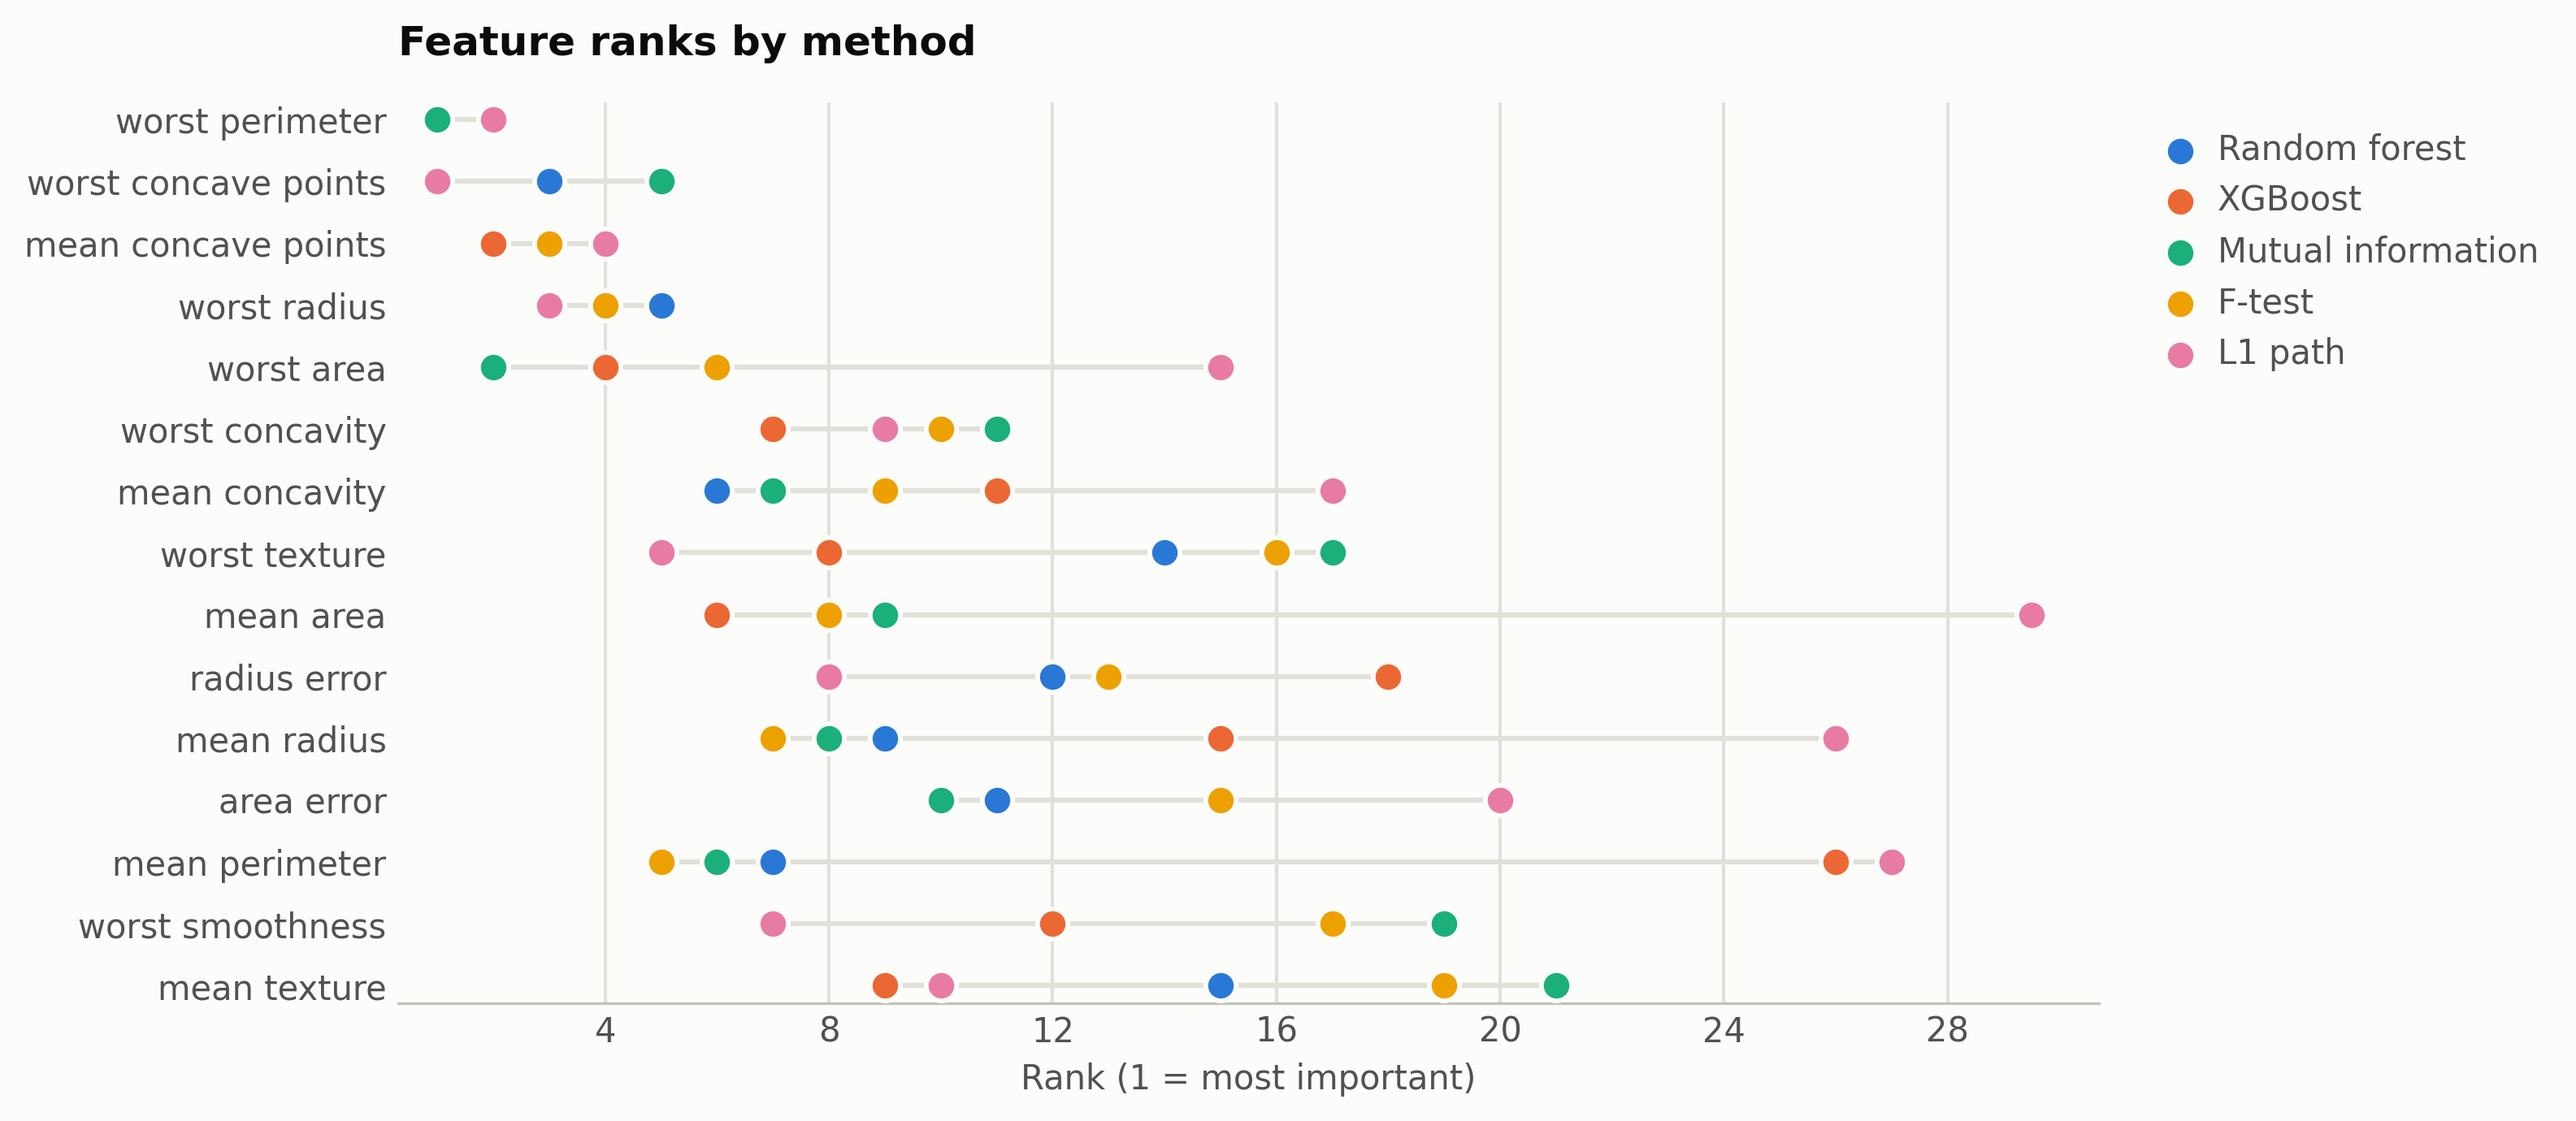
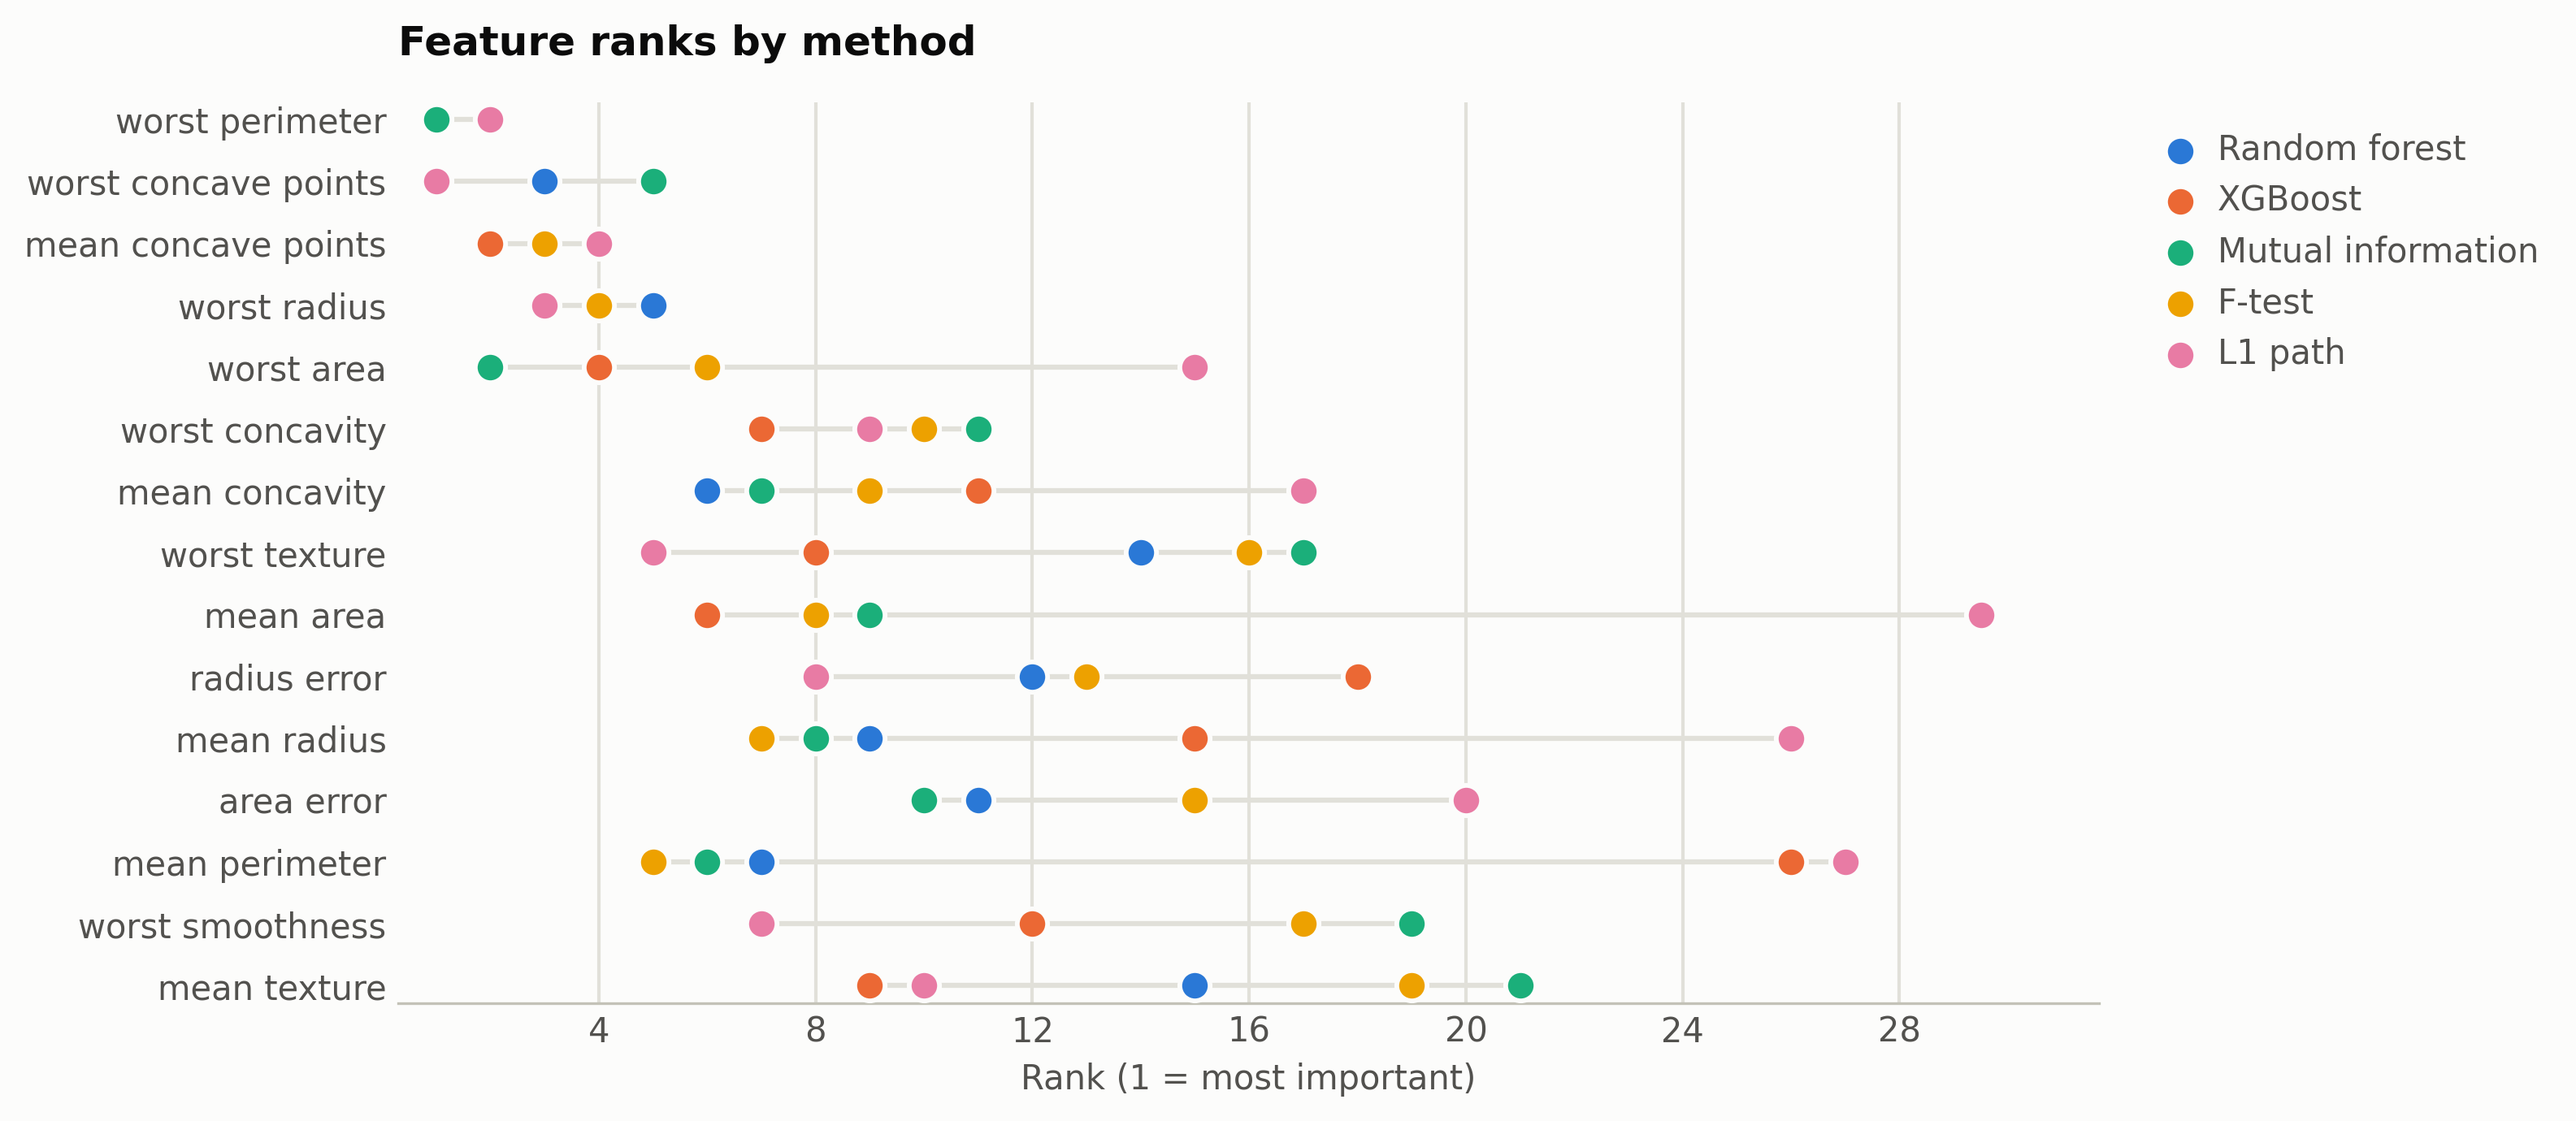
fix: plot axes scale to displayed rows for huge feature counts
At thousands of features the dot plot's rank axis spanned every rank while
the shown top rows sat in the first few percent, and the heatmap's fixed
vmax pushed all displayed cells to near-black. Both now scale to the rows
actually displayed. README/docs/notebook wire in the examples and the
CHANGELOG records the numpy input and examples system.

diff --git a/src/featureranker/plots.py b/src/featureranker/plots.py
@@ -136,7 +136,10 @@ def plot_rankings(
     ax.invert_yaxis()
     ax.margins(y=0.02)
     ax.xaxis.set_major_locator(MaxNLocator(integer=True))
-    ax.set_xlim(0.3, result.n_features + 0.7)
+    # scale to the displayed rows: with thousands of features the shown top
+    # ranks would otherwise huddle at the left of a nearly empty axis
+    shown_max = float(spread.to_numpy().max())  # ()
+    ax.set_xlim(0.3, shown_max * 1.05 + 0.7)
     ax.grid(axis="x", color=_GRID, linewidth=1.0)
     ax.set_xlabel("Rank (1 = most important)", color=_INK_SECONDARY)
     legend = ax.legend(
@@ -173,7 +176,7 @@ def plot_rank_heatmap(
         ranks,
         cmap=_SEQUENTIAL_R,
         vmin=1.0,
-        vmax=float(result.n_features),
+        vmax=float(ranks.to_numpy().max()),
         annot=annotate,
         fmt=".0f",
         annot_kws={"fontsize": 9},

diff --git a/tests/test_plots.py b/tests/test_plots.py
@@ -63,6 +63,14 @@ def test_plot_rankings_top_n(univariate_result):
     assert len(ax.get_yticklabels()) == 5
 
 
+def test_plot_rankings_axis_scales_to_shown_rows(wide_data):
+    """With thousands of features the axis follows the displayed top ranks."""
+    X, y = wide_data
+    result = feature_ranking(X, y, methods=["mi", "f_test"])
+    ax = plot_rankings(result, top_n=10, show=False)
+    assert ax.get_xlim()[1] < result.n_features / 2
+
+
 def test_plot_rank_heatmap(univariate_result):
     ax = plot_rank_heatmap(univariate_result, show=False)
     assert isinstance(ax, plt.Axes)

diff --git a/docs/examples/modernbert_sentiment.md b/docs/examples/modernbert_sentiment.md
@@ -1,0 +1,57 @@
+# ModernBERT sentiment: ranking unnamed embedding dimensions
+
+Nothing in featureranker requires named columns or a table. Here the
+features are the 1,536 pooled hidden-state dimensions of
+[answerdotai/ModernBERT-base](https://huggingface.co/answerdotai/ModernBERT-base) over
+4,000 SST-2 sentences (mask-aware mean pooling concatenated
+with mask-aware variance pooling, 768 dimensions each), and the target is
+the sentiment label. Passing the bare numpy matrix assigns each dimension a
+stable ID: f0000-f0767 are mean-pooled, f0768-f1535
+are variance-pooled.
+
+```python
+import numpy as np
+from featureranker import feature_ranking, voting
+
+E = np.load("embeddings.npy")   # (4000, 1536) pooled ModernBERT features
+y = np.load("labels.npy")       # (4000,) sentiment labels
+result = feature_ranking(E, y, task="classification")
+vote_table = voting(result)
+```
+
+## A few dimensions carry the signal
+
+The top 20 of 1,536 dimensions hold
+41% of the total vote score, and the L1 path never activated
+52 dimensions at all (92 parallel
+liblinear fits located every entry point). Of the top 20,
+19 are mean-pooled and 1 are variance-pooled dimensions.
+
+| feature | score |
+|---|---|
+| f0211 | 4.5 |
+| f0390 | 1.738 |
+| f0569 | 1.71 |
+| f0570 | 1.596 |
+| f0092 | 1.043 |
+| f0686 | 0.7097 |
+| f0354 | 0.5579 |
+| f0533 | 0.5549 |
+| f0108 | 0.5472 |
+| f0673 | 0.4218 |
+
+![Aggregated dimension importance](../images/modernbert_sentiment_vote.png)
+
+![Dimension ranks by method](../images/modernbert_sentiment_rankings.png)
+
+![Rank heatmap](../images/modernbert_sentiment_heatmap.png)
+
+## Reproduce
+
+```bash
+python examples/modernbert_sentiment.py extract --out artifacts
+python examples/modernbert_sentiment.py rank --artifacts artifacts
+```
+
+The two phases can run in different environments: extract needs torch,
+transformers, and datasets; rank needs featureranker.

diff --git a/docs/README.md b/docs/README.md
@@ -12,6 +12,7 @@ Python >= 3.11.
 | You want | Read |
 |---|---|
 | Install and first run | [quickstart.md](quickstart.md) |
+| Worked examples with plots (named, regression, unnamed embedding features) | [examples/breast_cancer.md](examples/breast_cancer.md), [examples/diabetes.md](examples/diabetes.md), [examples/modernbert_sentiment.md](examples/modernbert_sentiment.md) |
 | The math and score each method produces | [algorithms.md](algorithms.md) |
 | Speed, n_jobs, adaptive strategies, determinism | [performance.md](performance.md) |
 | Every public signature and exception | [api.md](api.md) |
@@ -27,3 +28,5 @@ Python >= 3.11.
   values in the message. There are no assertion-based checks.
 - Ranking tables always have the columns `["feature", "score"]`, sorted best
   first, with scores oriented so higher means more important.
+- The pages under `examples/` and their images are generated by the scripts
+  in the repository's `examples/` folder; rerun a script to refresh its page.

diff --git a/README.md b/README.md
@@ -51,6 +51,21 @@ deterministic for a given `random_state` at any `n_jobs`.
 | `f_test` | ANOVA F-test | Between/within variance ratio |
 | `l1` | L1 regularization path | Entry point on the lasso / L1 logistic path |
 
+## Examples
+
+Worked run-throughs with plots, each regenerated by a script in
+[examples/](examples/):
+
+- [Breast cancer classification](docs/examples/breast_cancer.md): named
+  morphology features, full ensemble, consensus and disagreement.
+- [Diabetes regression](docs/examples/diabetes.md): exact L1 path
+  breakpoints on clinical features.
+- [ModernBERT sentiment](docs/examples/modernbert_sentiment.md): 1,536
+  unnamed pooled transformer dimensions ranked directly from a numpy
+  matrix; a handful of dimensions carry the signal.
+
+![Feature ranks by method on breast cancer](docs/images/breast_cancer_rankings.png)
+
 ## Documentation
 
 | Topic | Page |

diff --git a/docs/contributing.md b/docs/contributing.md
@@ -39,6 +39,23 @@ when changing ranking code.
 - One module per responsibility: `ranking.py` orchestrates; each method
   family owns its module and its options dataclass.
 
+## Regenerating example docs
+
+The pages in `docs/examples/` and the images in `docs/images/` are written
+by the scripts in `examples/`. After changing ranking or plotting behavior,
+rerun them so the documentation shows current output:
+
+```bash
+python examples/breast_cancer.py
+python examples/diabetes.py
+python examples/modernbert_sentiment.py extract --out artifacts
+python examples/modernbert_sentiment.py rank --artifacts artifacts
+```
+
+The ModernBERT extract phase needs torch, transformers, and datasets (a GPU
+helps); its rank phase, and the other two scripts, need only featureranker.
+The two phases can run in different interpreters.
+
 ## Releasing
 
 1. Update `CHANGELOG.md`.

diff --git a/CHANGELOG.md b/CHANGELOG.md
@@ -56,6 +56,12 @@ steps.
 
 ### Added
 
+- `feature_ranking` accepts a bare 2D numpy array (embeddings, pooled
+  hidden states); unnamed features get stable zero-padded IDs via the new
+  `generated_feature_names`.
+- Self-regenerating examples: scripts in `examples/` write the pages in
+  `docs/examples/` and their plots, including a ModernBERT sentiment
+  run over 1,536 unnamed pooled transformer dimensions.
 - `RankingResult` with `rank_matrix`, `score_matrix`, `equals`, `save`,
   `load`, and per-method diagnostics.
 - Typed per-method options: `LassoOptions`, `LogisticL1Options`,
